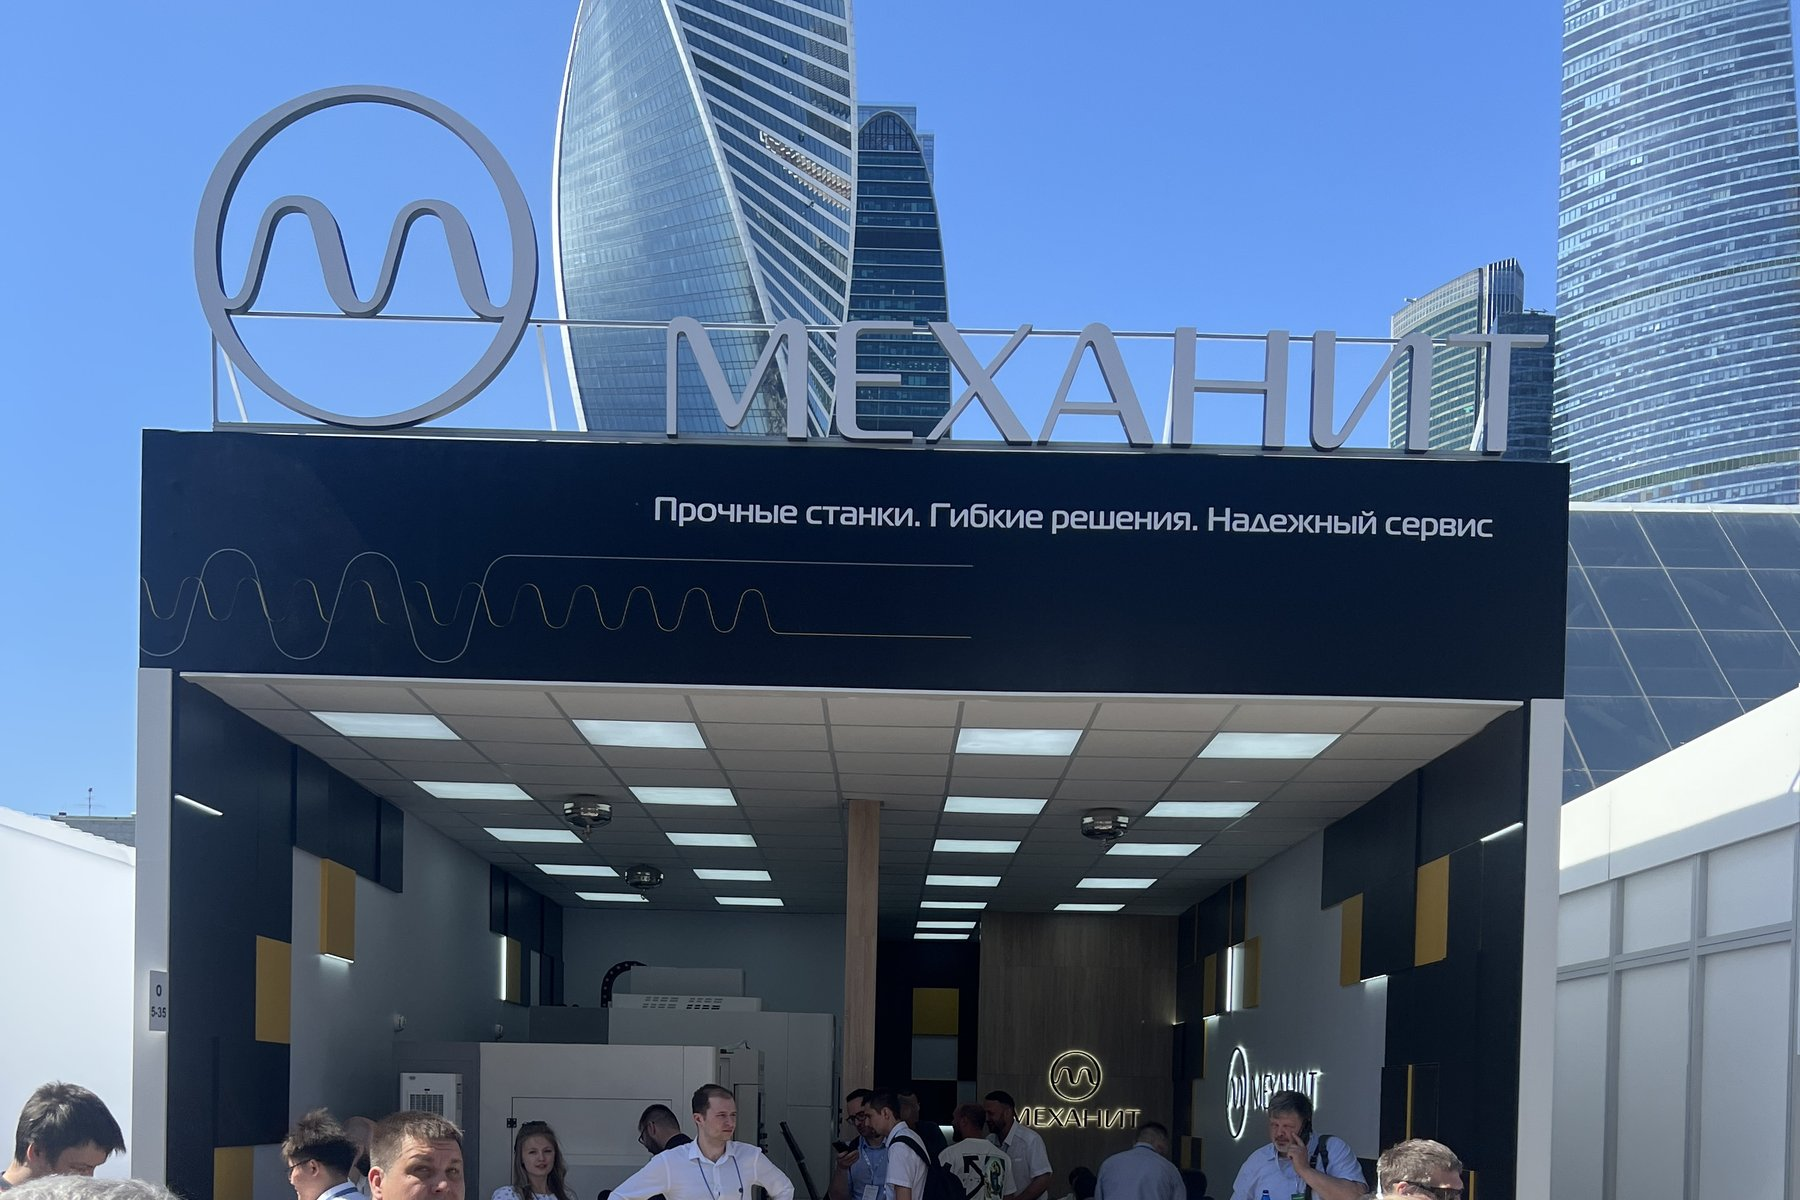
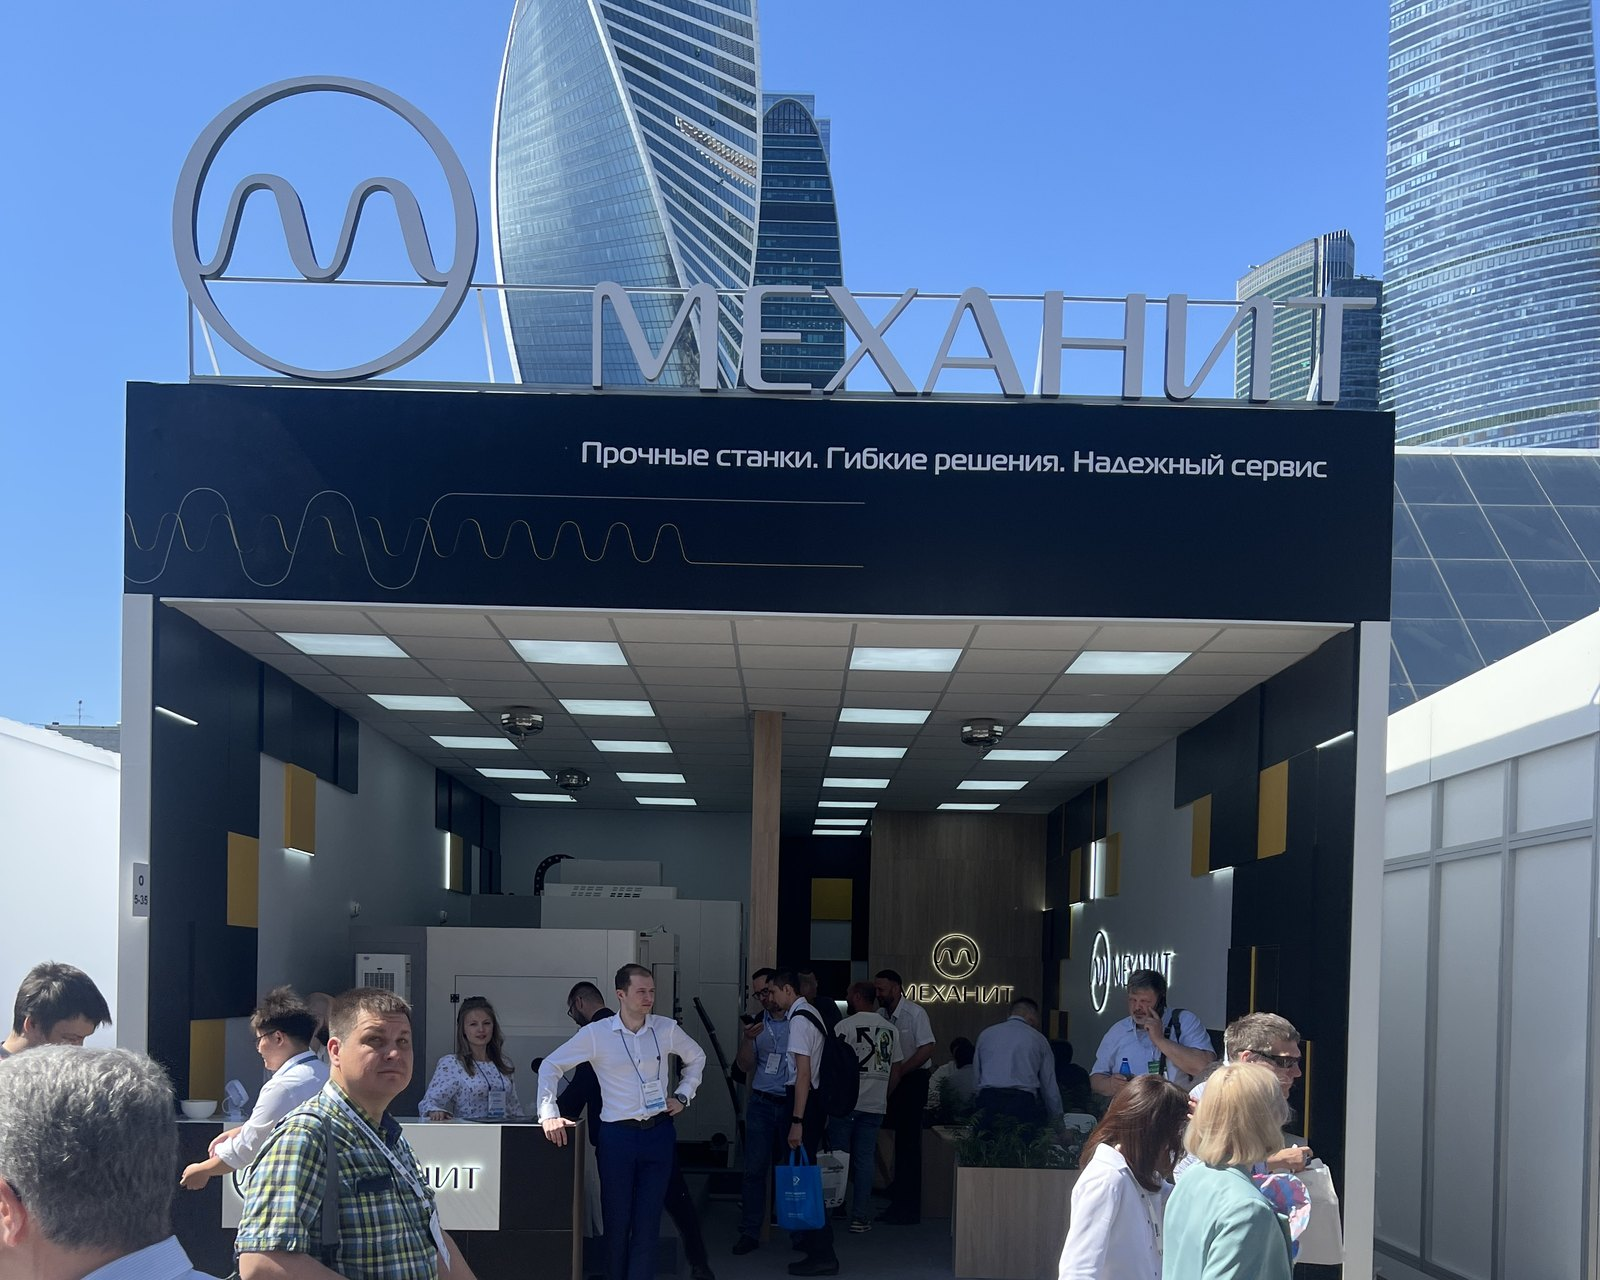
О компании: фото стенда IMG_8644 целиком (логотип и вход), блок выше
Claude-Session: https://claude.ai/code/session_01QQD7BkaBE1nmMMUSWrse1V

diff --git a/about.html b/about.html
@@ -1647,7 +1647,7 @@ footer{background:var(--bm);color:rgba(234,234,230,.55);padding:3rem 0 2rem;bord
 <section class="ib-section"><div class="wrap"><div class="ib-head"><div><h2 class="eq-h2">Что входит в проект внедрения</h2><p class="eq-lede">Каждый пункт — зона нашей ответственности, а не обещание «поможем разобраться».</p></div><a class="ib-more" href="process.html">Как мы работаем →</a></div><div class="cp-line" style="--n:7"><div><i>01</i><b>Технология</b><span>Разбор детали, маршрут, режимы, программы</span></div><div><i>02</i><b>Подбор станка</b><span>Под технологию и реальную загрузку</span></div><div><i>03</i><b>Финансирование</b><span>Лизинг через партнёров</span></div><div><i>04</i><b>Поставка</b><span>С документацией, в том числе со склада</span></div><div><i>05</i><b>Пусконаладка</b><span>Запуск, первая деталь, обучение</span></div><div><i>06</i><b>Инструмент</b><span>Карта под деталь, оснастка, расчёт стоимости</span></div><div><i>07</i><b>Сервис</b><span>Гарантия 12 месяцев, выезд инженера</span></div></div></div></section>
 <section class="ib-section"><div class="wrap"><div class="ib-head"><div><h2 class="eq-h2">Чем мы отличаемся от поставщика станков</h2><p class="eq-lede">Мы закрываем инженерную часть проекта. Станок — одна позиция в поставке, а не сама задача.</p></div></div><div class="cp-tiles"><div class="cp-tile"><img src="site-assets/about-tools.jpg" alt="Начинаем с детали, а не с каталога" loading="lazy"/><div class="cp-tile-body"><small>Начинаем с детали</small><h3>Начинаем с детали, а не с каталога</h3><p>Отправная точка — чертёж, материал, партия и такт. Станок подбирается под технологию, а не технология под наличие на складе.</p><a href="process.html#step-1">Как разбираем деталь →</a></div></div><div class="cp-tile"><img src="site-assets/about-pnr.jpg" alt="Пусконаладку делают наши инженеры" loading="lazy"/><div class="cp-tile-body"><small>Свои инженеры</small><h3>Пусконаладку делают наши инженеры</h3><p>Собственная инженерная служба, а не подрядчики. Тот, кто подбирал оборудование, отвечает и за его запуск.</p><a href="service.html">Сервис и пусконаладка →</a></div></div><div class="cp-tile"><img src="instrument-assets/hub-tile-cutting.jpg" alt="Инструмент — часть проекта" loading="lazy"/><div class="cp-tile-body"><small>Инструмент</small><h3>Инструмент — часть проекта</h3><p>Семнадцать брендов инструмента и оснастки, свой склад и расчёт стоимости обработки детали.</p><a href="production-equipment.html">Инструмент и оснастка →</a></div></div></div><div class="cp-row"><div><b>Разрабатываем технологию</b><span>Заказчик получает способ делать свою деталь, а не коробку с оборудованием.</span></div><div><b>Не привязаны к одному вендору</b><span>Если под задачу лучше подходит станок вне нашего каталога — скажем прямо и предложим его.</span></div><div><b>Нижний Новгород как логистика</b><span>Центральные промышленные регионы в плече одного дня, без московской наценки.</span></div></div></div></section>
 <section class="ib-section"><div class="wrap"><div class="ib-head"><div><h2 class="eq-h2">Люди, которые ведут проект</h2><p class="eq-lede">Технологи и сервисные инженеры в штате. Пусконаладку, обучение и гарантийные работы выполняют наши специалисты, а не подрядчики.</p></div></div><div class="cp-team"><figure><img src="site-assets/team-1.jpg" alt="Сотрудник Механита у обрабатывающего центра на стенде" loading="lazy"/><figcaption><b>На стенде «Металлообработка-2025»</b>Станок с ЧПУ в экспозиции Механита</figcaption></figure><figure><img src="site-assets/team-2.jpg" alt="Инженер за стойкой ЧПУ" loading="lazy"/><figcaption><b>Стойка ЧПУ</b>Показываем работу системы управления на реальном станке</figcaption></figure><figure><img src="site-assets/team-3.jpg" alt="Инженер за пультом станка в цехе" loading="lazy"/><figcaption><b>Пусконаладка</b>Запуск оборудования на площадке заказчика</figcaption></figure><figure><img src="site-assets/team-4.jpg" alt="Переговоры на стенде" loading="lazy"/><figcaption><b>Переговоры на выставке</b>Разбор задачи заказчика прямо у витрины с инструментом</figcaption></figure></div></div></section>
-<section class="ib-section tight"><div class="wrap"><div class="cp-wide"><div class="cp-wide-media"><img src="site-assets/about-stand.jpg" alt="Стенд Механита на выставке «Металлообработка»" loading="lazy"/></div>
+<section class="ib-section tight"><div class="wrap"><div class="cp-wide"><div class="cp-wide-media tall"><img src="site-assets/about-stand.jpg" alt="Стенд Механита на выставке «Металлообработка»" loading="lazy"/></div>
 <div class="cp-wide-body"><h2>Ежегодно на «Металлообработке» в Москве</h2><p>Участвуем в ведущих выставках отрасли, выступаем партнёром и спонсором. На стенде — станки в работе, инструмент и инженеры, с которыми можно разобрать вашу деталь.</p>
 <ul><li>Партнёр 25-й юбилейной выставки «Металлообработка-2025»</li><li>Живая обработка на станках и витрина инструмента</li><li>Разбор задач заказчиков прямо на стенде</li></ul>
 <div class="ib-band-links"><a href="press-rubric-vystavki.html">Репортажи с выставок</a></div></div></div></div></section>

diff --git a/company-pages.css b/company-pages.css
@@ -80,7 +80,8 @@
 /* --- Фото-полоса с текстом (широкая) --- */
 .cp-wide{display:grid;grid-template-columns:minmax(0,1fr) minmax(0,1fr);background:#fff;border:1px solid var(--line);border-radius:24px;overflow:hidden;margin-top:clamp(28px,3vw,40px)}
 .cp-wide-media{position:relative;min-height:340px}
-.cp-wide-media img{position:absolute;inset:0;width:100%;height:100%;object-fit:cover;display:block}
+.cp-wide-media img{position:absolute;inset:0;width:100%;height:100%;object-fit:cover;object-position:center top;display:block}
+.cp-wide-media.tall{min-height:460px}
 .cp-wide-body{padding:clamp(26px,3vw,44px);display:flex;flex-direction:column;justify-content:center;gap:12px}
 .cp-wide-body h2{font-family:'Magistral',sans-serif;font-weight:700;font-size:clamp(22px,2.2vw,32px);line-height:1.1;color:var(--bm);margin:0}
 .cp-wide-body p{font-size:15px;line-height:1.6;color:var(--mid);margin:0}
